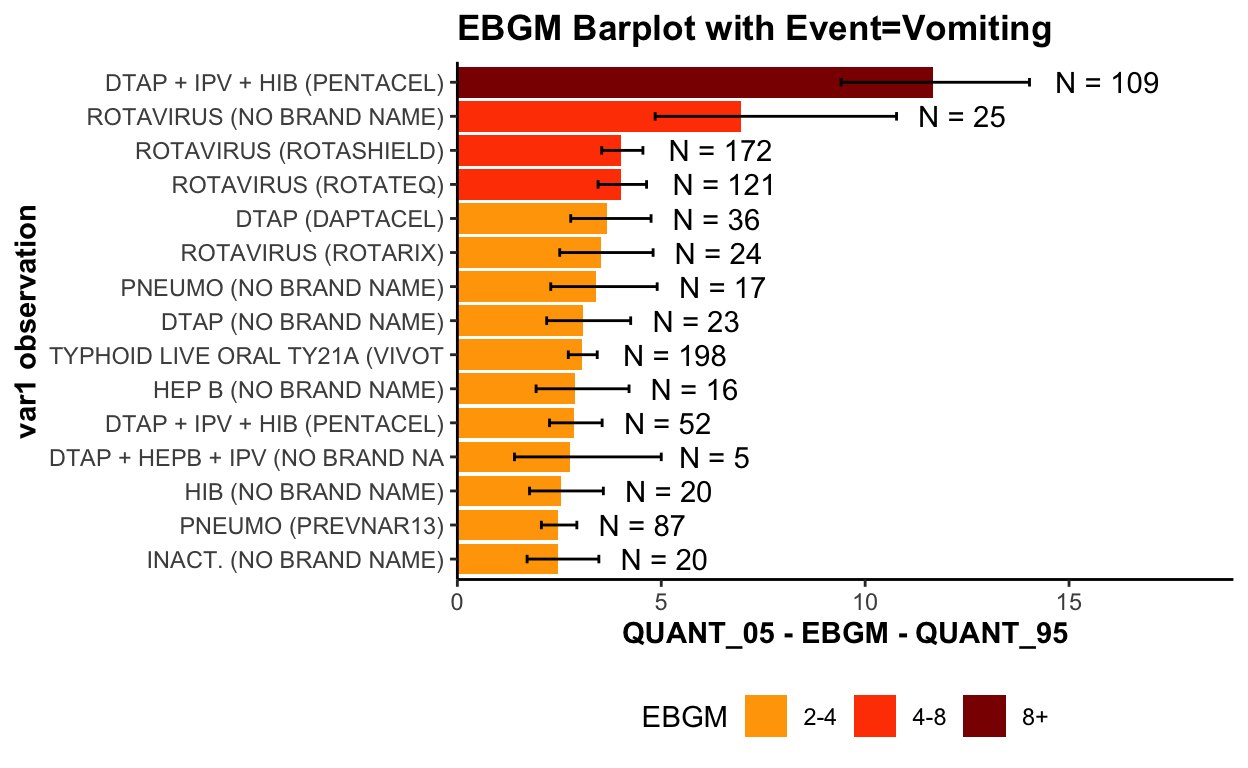
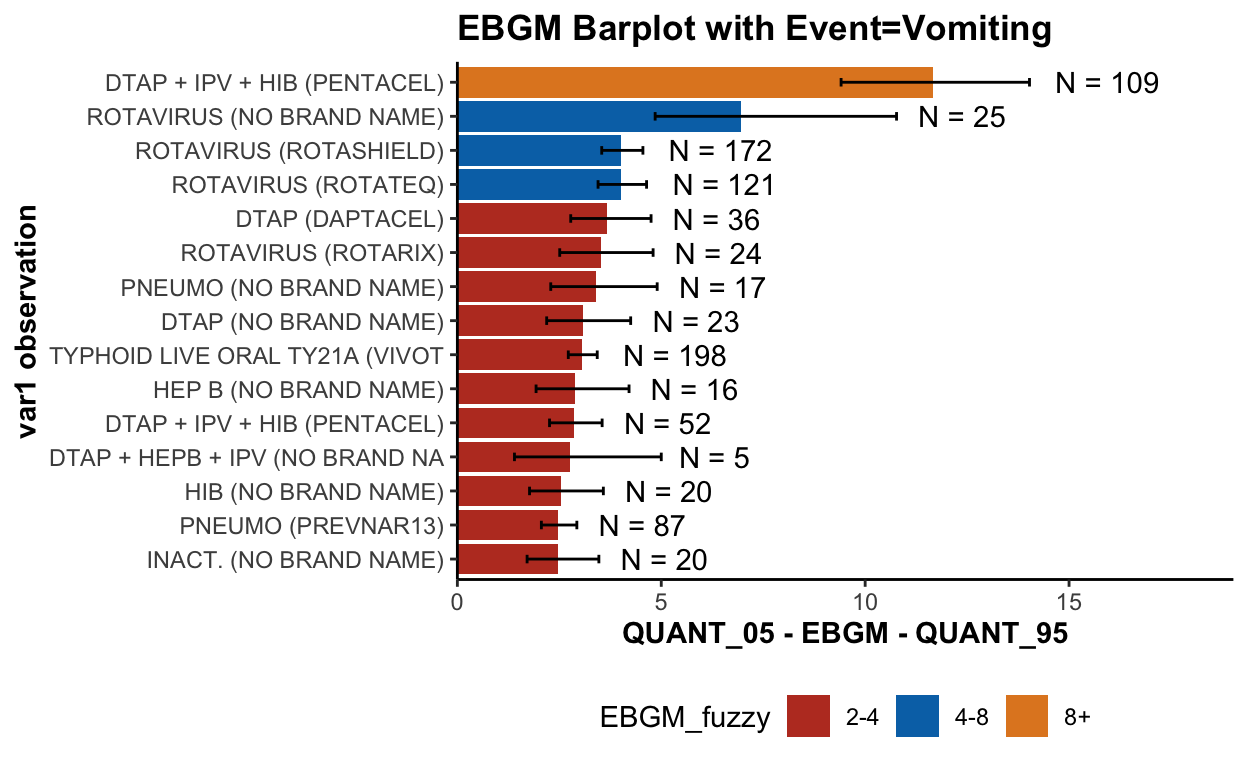
render site

Changed region(s): [[0.3438, 0.0625, 0.75, 0.75], [0.4688, 0.9062, 0.875, 0.9688]]

diff --git a/docs/analysis-gps.html b/docs/analysis-gps.html
@@ -1349,13 +1349,15 @@ Pipeline
 <h3 class="d-toc-header">Table of Contents</h3>
 <nav class="d-toc" id="TOC">
 <ul>
+<li><a href="#data-model">Data Model</a></li>
 <li><a href="#calculate-prr">Calculate PRR</a></li>
 <li><a href="#fit-prior">Fit Prior</a></li>
-<li><a href="#infer-empirical-bayes-scores">Infer Empirical Bayes scores</a></li>
-<li><a href="#visualize-empirical-bayes-scores">Visualize Empirical Bayes scores</a></li>
+<li><a href="#infer-empirical-bayes-scores">Infer Empirical Bayes Scores</a></li>
+<li><a href="#sanity-check-empirical-bayes-scores">Sanity Check Empirical Bayes Scores</a></li>
 </ul>
 </nav>
 <hr class="d-toc-separator"/>
+<h1 id="data-model">Data Model</h1>
 <p>Let’s denote the vaccine-symptom pairs from the VAERS database as <span class="math inline">\(2 \times 2\)</span> contingency tables:</p>
 <table>
 <thead>
@@ -1399,7 +1401,16 @@ Pipeline
 <p><span class="math display">\[
 \lambda_{ij} \sim P \ \text{Gamma}(\alpha_1, \beta_1) + (1-P) \ \text{Gamma}(\alpha_2, \beta_2).
 \]</span></p>
-<p>Using an empirical Bayesian approach, we can use the data to estimate the paramaters (<span class="math inline">\(\alpha_1\)</span>, <span class="math inline">\(\alpha_2\)</span>, <span class="math inline">\(\beta_1\)</span>, <span class="math inline">\(\beta_2\)</span>, <span class="math inline">\(P\)</span>), and then calculate the posterior for <span class="math inline">\(\lambda\)</span> and find the expectation of <span class="math inline">\(\log(\lambda)\)</span>. The Empirical Bayesian Geometric Mean (EBGM) is then defined as</p>
+<p>Using an empirical Bayesian approach, we can use the data to estimate the paramaters (<span class="math inline">\(\alpha_1\)</span>, <span class="math inline">\(\alpha_2\)</span>, <span class="math inline">\(\beta_1\)</span>, <span class="math inline">\(\beta_2\)</span>, <span class="math inline">\(P\)</span>), calculate the posterior for <span class="math inline">\(\lambda\)</span>, and then derive the expectation of <span class="math inline">\(\log(\lambda)\)</span>:</p>
+<p><span class="math display">\[
+E(\log(\lambda)) = Q (\psi (\alpha_1 + n_{ij}) - \log(1/\beta_1 + E_{ij})) + (1-Q) (\psi (\alpha_2 + n_{ij}) - \log(1/\beta_2) + E_{ij})
+\]</span></p>
+<p>where</p>
+<p><span class="math display">\[
+Q = \frac{P \cdot \text{NB}(n_{ij}, E_{ij} \ | \ \alpha_1, \beta_1)}{P \cdot \text{NB}(n_{ij}, E_{ij} \ | \ \alpha_1, \beta_1) + (1-P) \cdot \text{NB}(n_{ij}, E_{ij} \ | \ \alpha_2, \beta_2)}
+\]</span></p>
+<p><span class="math inline">\(\psi\)</span> is the digamma function. <span class="math inline">\(\text{NB}\)</span> is the negative binomial distribution.</p>
+<p>With the expectation of <span class="math inline">\(\log(\lambda)\)</span>, we can define the Empirical Bayesian Geometric Mean (EBGM) as</p>
 <p><span class="math display">\[EBGM = e^{E(\log(\lambda))}.\]</span></p>
 <p>The fifth percentile of the posterior distribution of <span class="math inline">\(\lambda\)</span> is denoted as EB05 and interpreted as the lower one-sided 95% confidence limit for the EBGM. This estimator gives more conservative estimates when the event counts are small, thus yields a shrinkage estimate which could reduce the number of false-positive signals.</p>
 <h1 id="calculate-prr">Calculate PRR</h1>
@@ -1409,6 +1420,7 @@ Pipeline
 library(&quot;openEBGM&quot;)
 library(&quot;magrittr&quot;)
 library(&quot;kableExtra&quot;)
+library(&quot;ggsci&quot;)
 
 df_p &lt;- readRDS(&quot;data-processed/df.rds&quot;) %&gt;%
   processRaw(stratify = TRUE, zeroes = FALSE)</code></pre>
@@ -1517,7 +1529,7 @@ theta_hat</code></pre>
 <pre class="r"><code>
 saveRDS(theta_hat, file = &quot;data-processed/theta_hat.rds&quot;)</code></pre>
 </div>
-<h1 id="infer-empirical-bayes-scores">Infer Empirical Bayes scores</h1>
+<h1 id="infer-empirical-bayes-scores">Infer Empirical Bayes Scores</h1>
 <div class="layout-chunk" data-layout="l-body">
 <pre class="r"><code>
 df_p &lt;- readRDS(&quot;data-processed/df_p.rds&quot;)
@@ -2229,7 +2241,7 @@ txt[1:5]</code></pre>
   inappropriate age for vaccine INFLUENZA (SEASONAL) (FLUCELVAX) is
   disproportionately high compared to this same event for all other
   vaccines, with 350 total reports and an EBGM05 score 53.27.</code></pre>
-<h1 id="visualize-empirical-bayes-scores">Visualize Empirical Bayes scores</h1>
+<h1 id="sanity-check-empirical-bayes-scores">Sanity Check Empirical Bayes Scores</h1>
 <div class="layout-chunk" data-layout="l-body">
 <pre class="r"><code>
 df_p &lt;- readRDS(&quot;data-processed/df_p.rds&quot;)
@@ -2274,25 +2286,25 @@ Top 5 Highest QUANT_05 Scores
 48195  0.09509842    70.29
 73652  5.88683526    53.27</code></pre>
 </div>
-<p>Global might not be very helpful:</p>
+<p>The global overview might not be too helpful:</p>
 <div class="layout-chunk" data-layout="l-body">
 <pre class="r"><code>
 plot(ebout, plot.type = &quot;histogram&quot;)</code></pre>
 <p><img src="analysis-gps_files/figure-html5/unnamed-chunk-18-1.png" width="624" /></p>
 <pre class="r"><code>
-plot(ebout, plot.type = &quot;shrinkage&quot;)</code></pre>
+plot(ebout, plot.type = &quot;shrinkage&quot;) + scale_color_nejm()</code></pre>
 <p><img src="analysis-gps_files/figure-html5/unnamed-chunk-18-2.png" width="624" /></p>
 </div>
-<p>Focus on a specific type of adverse event:</p>
+<p>Let’s focus on a specific type of adverse event (vomiting):</p>
 <div class="layout-chunk" data-layout="l-body">
 <pre class="r"><code>
-plot(ebout, event = &quot;Vomiting&quot;)</code></pre>
+plot(ebout, event = &quot;Vomiting&quot;) + scale_fill_nejm()</code></pre>
 <p><img src="analysis-gps_files/figure-html5/unnamed-chunk-19-1.png" width="624" /></p>
 <pre class="r"><code>
 plot(ebout, plot.type = &quot;histogram&quot;, event = &quot;Vomiting&quot;)</code></pre>
 <p><img src="analysis-gps_files/figure-html5/unnamed-chunk-19-2.png" width="624" /></p>
 <pre class="r"><code>
-plot(ebout, plot.type = &quot;shrinkage&quot;, event = &quot;Vomiting&quot;)</code></pre>
+plot(ebout, plot.type = &quot;shrinkage&quot;, event = &quot;Vomiting&quot;) + scale_color_nejm()</code></pre>
 <p><img src="analysis-gps_files/figure-html5/unnamed-chunk-19-3.png" width="624" /></p>
 </div>
 <div class="layout-chunk" data-layout="l-body">

diff --git a/docs/analysis-bcpnn.html b/docs/analysis-bcpnn.html
@@ -1347,6 +1347,7 @@ Pipeline
 </div>
 
 <div class="d-article">
+<h1 id="data-model">Data Model</h1>
 <p>The BCPNN method leverages the information component (IC) to measure the association between the vaccine and symptom. IC is widely used to measure the mutual information between two random variables.</p>
 <p>Let <span class="math inline">\(p_i\)</span> be the probability of a target vaccine <span class="math inline">\(i\)</span> exposure being reported, <span class="math inline">\(p_j\)</span> be the the probability of the target symptom <span class="math inline">\(j\)</span> being reported, and <span class="math inline">\(p_{ij}\)</span> be the joint probability of a report on the target symptom <span class="math inline">\(j\)</span> under exposure to the target vaccine <span class="math inline">\(i\)</span>. Bate et al. <span class="citation" data-cites="bate1998">(Bate et al. <a href="#ref-bate1998" role="doc-biblioref">1998</a>)</span> defines the metric <span class="math inline">\(\text{IC}_{ij}\)</span> as</p>
 <p><span class="math display">\[
@@ -1407,6 +1408,15 @@ p_j \sim \text{Beta}(1, 1).
 <p><span class="math display">\[
 \hat{\text{IC}_{ij}} = \log_2 \frac{(n_{ij} + 1) (n + 2)^2}{(n_{ij} + 1) (n+2)^2 + n(n_i + 1) (n_j + 1)}.
 \]</span></p>
+<p>The variance estimation is given by</p>
+<p><span class="math display">\[
+\hat{\sigma_{ij}}^2 = \frac{1}{(\log 2)^2} (\frac{n - n_{ij} + \gamma - 1}{(n_{ij} + 1)(n+\gamma+1)} + \frac{n-n_{i} + 1}{(n_i + 1) (n+3)} + \frac{n - n_j + 1}{(n_j + 1)(n+3)})
+\]</span></p>
+<p>where</p>
+<p><span class="math display">\[
+\gamma = \frac{(n+2)^2}{(n_i + 1)(n_j + 1)}.
+\]</span></p>
+<h1 id="computation">Computation</h1>
 <p>Load the packages for BCPNN-based singal detection and ranking:</p>
 <div class="layout-chunk" data-layout="l-body">
 <pre class="r"><code>

diff --git a/docs/index.html b/docs/index.html
@@ -1344,7 +1344,7 @@ Pipeline
 
 <div class="d-article">
 <h1 id="method">Method</h1>
-<p>Here is the <a href="method.html">method summary</a>.</p>
+<p>Here is a <a href="method.html">summary of our method</a>.</p>
 <p><img src="assets/flow.svg" alt=""></p>
 <h1 id="pipeline">Pipeline</h1>
 <ol type="1">
